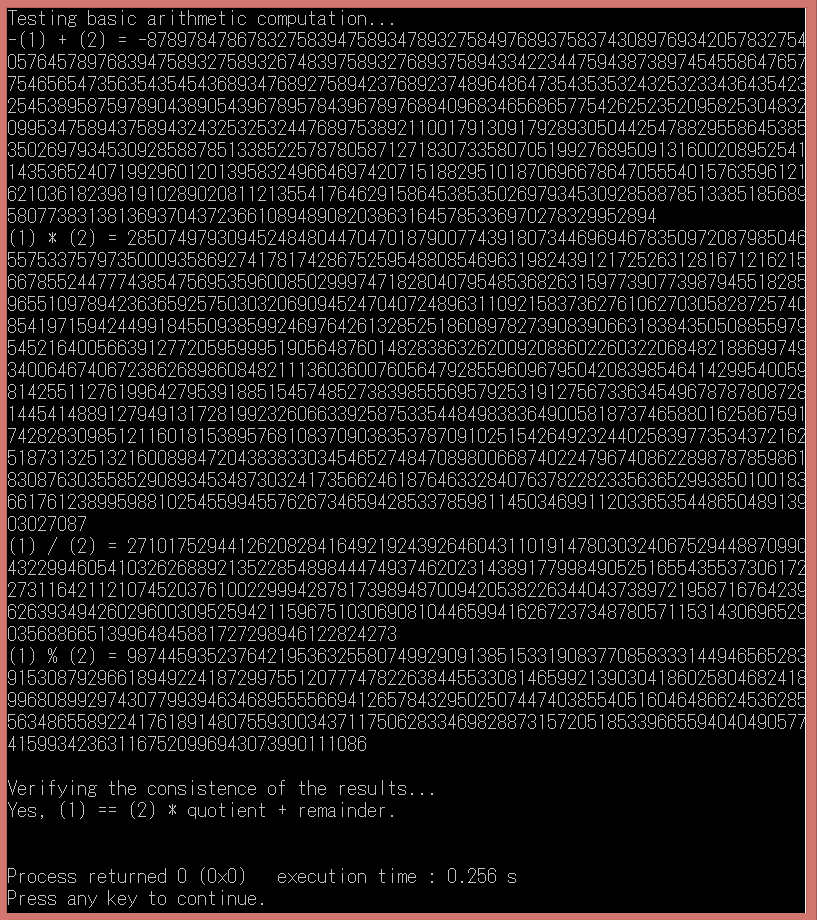
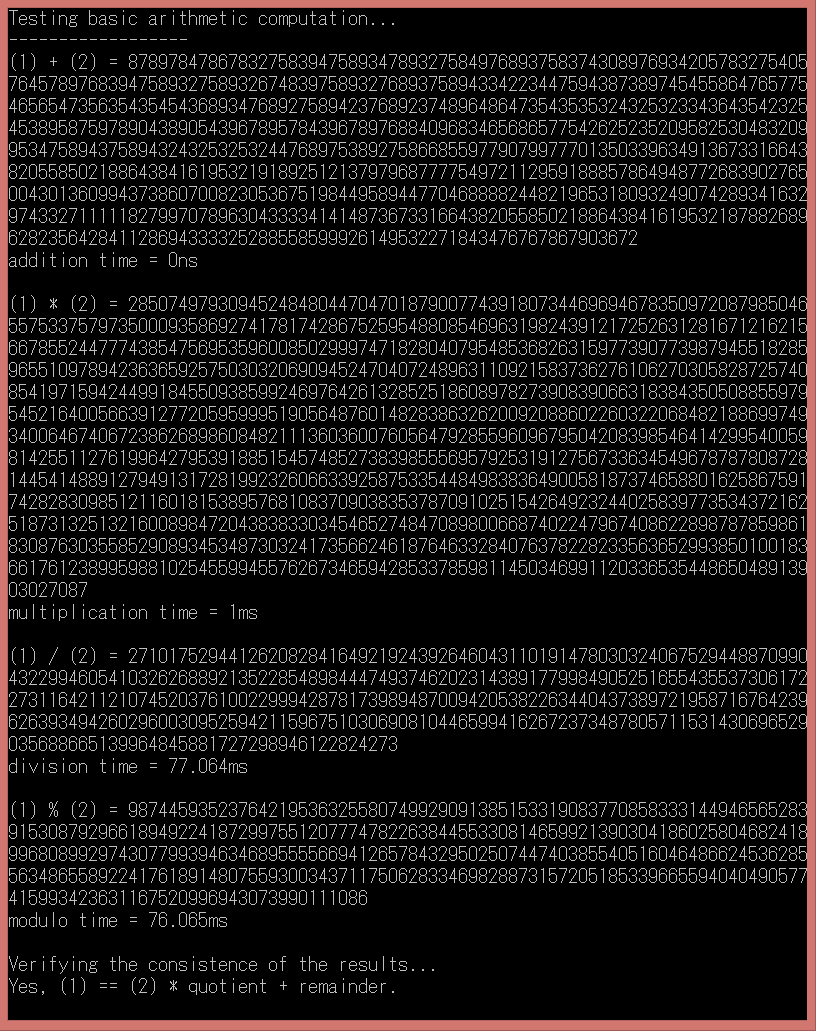
update demo.cpp
add timing calc.

Changed region(s): [[0.0, 0.0, 1.0, 1.0], [0.0919, 0.913, 0.1225, 0.9435]]

diff --git a/demo.cpp b/demo.cpp
@@ -1,4 +1,5 @@
 #include <iostream>
+#include <chrono>
 
 #include "./include/BigInteger.h"
 
@@ -30,13 +31,31 @@ int main()
 
     // Testing basic arithmetic computation
     cout << "Testing basic arithmetic computation... " << endl;
-    cout << "-(1) + (2) = " << -bigint_1 + bigint_2 << endl;
-    cout << "(1) * (2) = " << bigint_1 * bigint_2 << endl;
+    cout << "------------------" << endl;
+
+    auto start_t = chrono::steady_clock::now();
+    BigInteger add_r = bigint_1 + bigint_2;
+    auto add_time = chrono::steady_clock::now() - start_t;
+    cout << "(1) + (2) = " << add_r << endl;
+    cout << "addition time = " << chrono::duration<double, nano> (add_time).count() << "ns" << endl << endl;
+
+    start_t = chrono::steady_clock::now();
+    BigInteger product = bigint_1 * bigint_2;
+    auto mul_time = chrono::steady_clock::now() - start_t;
+    cout << "(1) * (2) = " << product << endl;
+    cout << "multiplication time = " << chrono::duration<double, milli>(mul_time).count() << "ms" << endl << endl;
+
+    start_t = chrono::steady_clock::now();
     BigInteger quotient = bigint_1 / bigint_2;
+    auto div_time = chrono::steady_clock::now() - start_t;
     cout << "(1) / (2) = " << quotient << endl;
+    cout << "division time = " << chrono::duration<double, milli>(div_time).count() << "ms" << endl << endl;
+
+    start_t = chrono::steady_clock::now();
     BigInteger remainder = bigint_1 % bigint_2;
+    auto mod_time = chrono::steady_clock::now() - start_t;
     cout << "(1) % (2) = " << remainder << endl;
-    cout << endl;
+    cout << "modulo time = " << chrono::duration<double, milli>(mod_time).count() << "ms" << endl << endl;
 
     // Verifying the consistence of the results
     cout << "Verifying the consistence of the results... " << endl;
